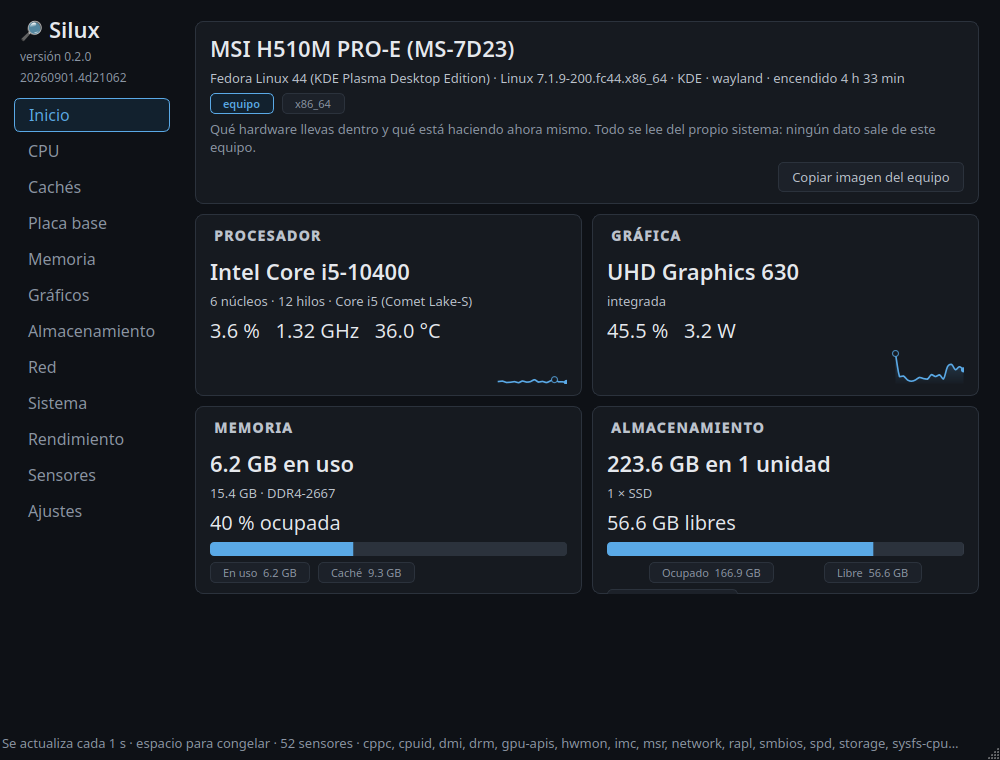
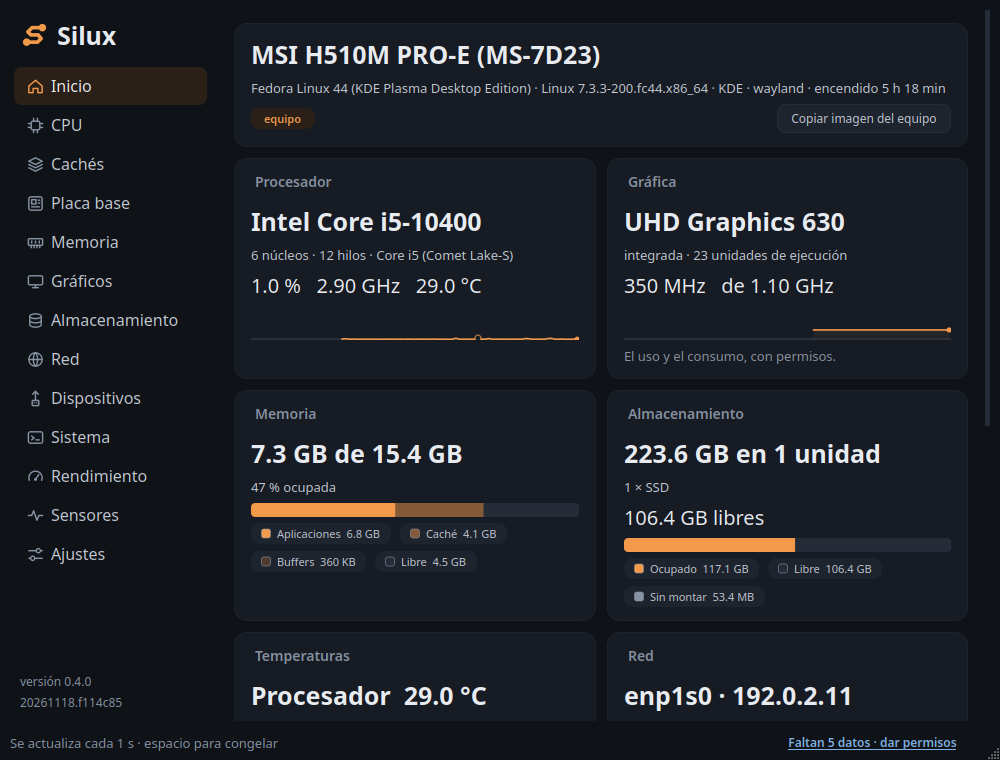
docs(readme): las capturas de la 0.4.0
Las de antes eran del 1 de septiembre, con la 0.2.0: el estilo anterior,
la lupa en la barra lateral, sin Dispositivos y sin candados. Se rehacen las
mismas ocho páginas, al mismo tamaño (1000×760), en oscuro, con
--anonimo y con un minuto de gráficas (--interval 1 --samples 65), en el
i5-10400 de la oficina y desde el commit ee8a635 con el árbol limpio:
la barra lateral de las ocho dice ese commit.

Van sin permisos, porque había que pedir la contraseña y el autor no
estaba. El README lo dice. Para tenerlas con permisos, como las de
septiembre, se rehacen con la ventana de verdad (docs/en-curso.md).
tools/comprobar_privacidad.py no encuentra nada.

diff --git a/README.md b/README.md
@@ -29,6 +29,9 @@ Escrito con ayuda de Claude.
   <img src="capturas/almacenamiento.png" width="49%" alt="Almacenamiento">
 </p>
 
+Son de un i5-10400 con su gráfica integrada, sin permisos: lo que los pide
+sale con un candado, que es lo que se ve al abrirlo por primera vez.
+
 Están tomadas con `--anonimo`, que cambia el nombre del equipo, las
 direcciones y los números de serie por otros de la misma pinta. Cada PNG lleva
 escrito dentro si se hizo así, porque `tools/comprobar_privacidad.py` busca
